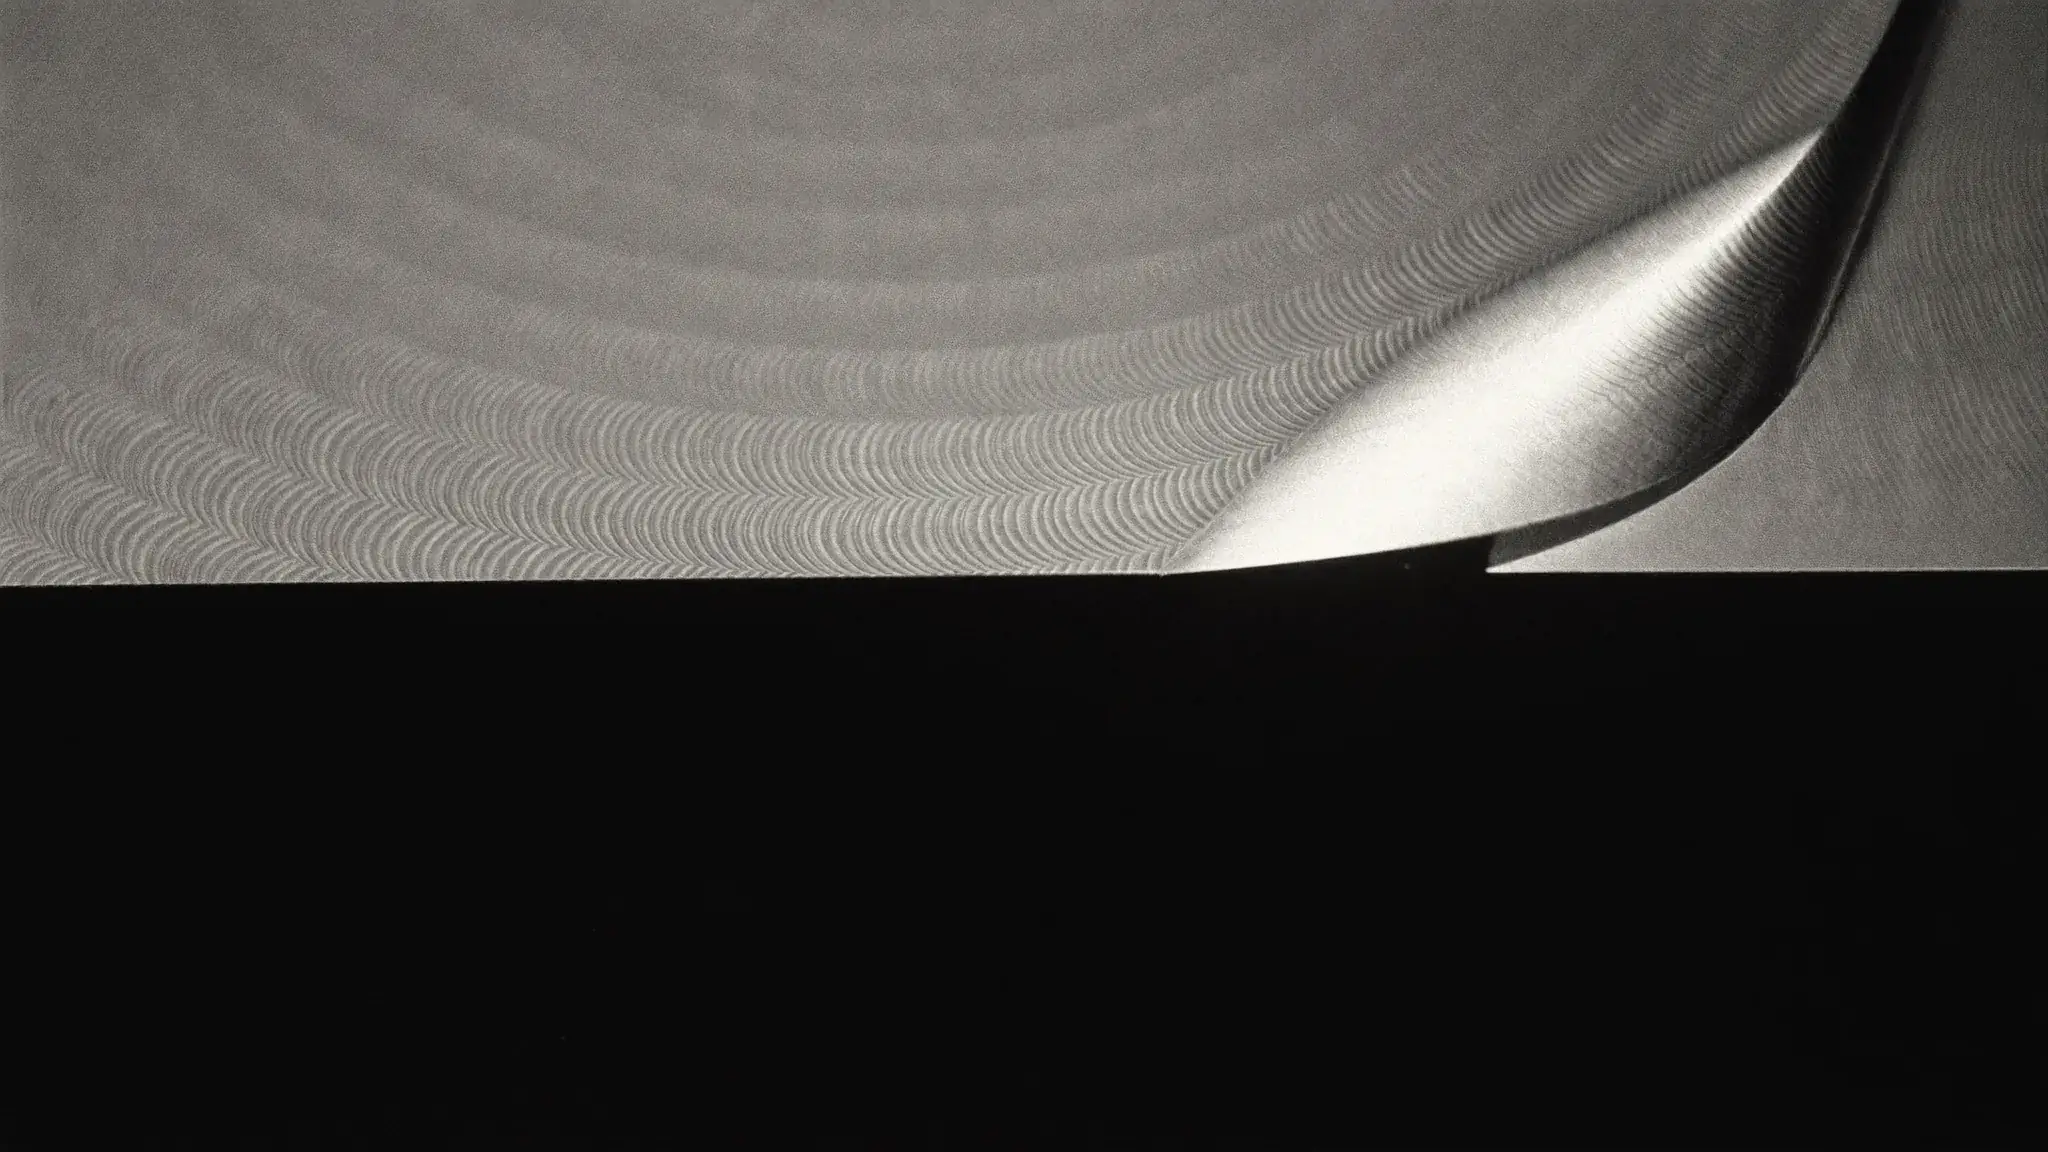
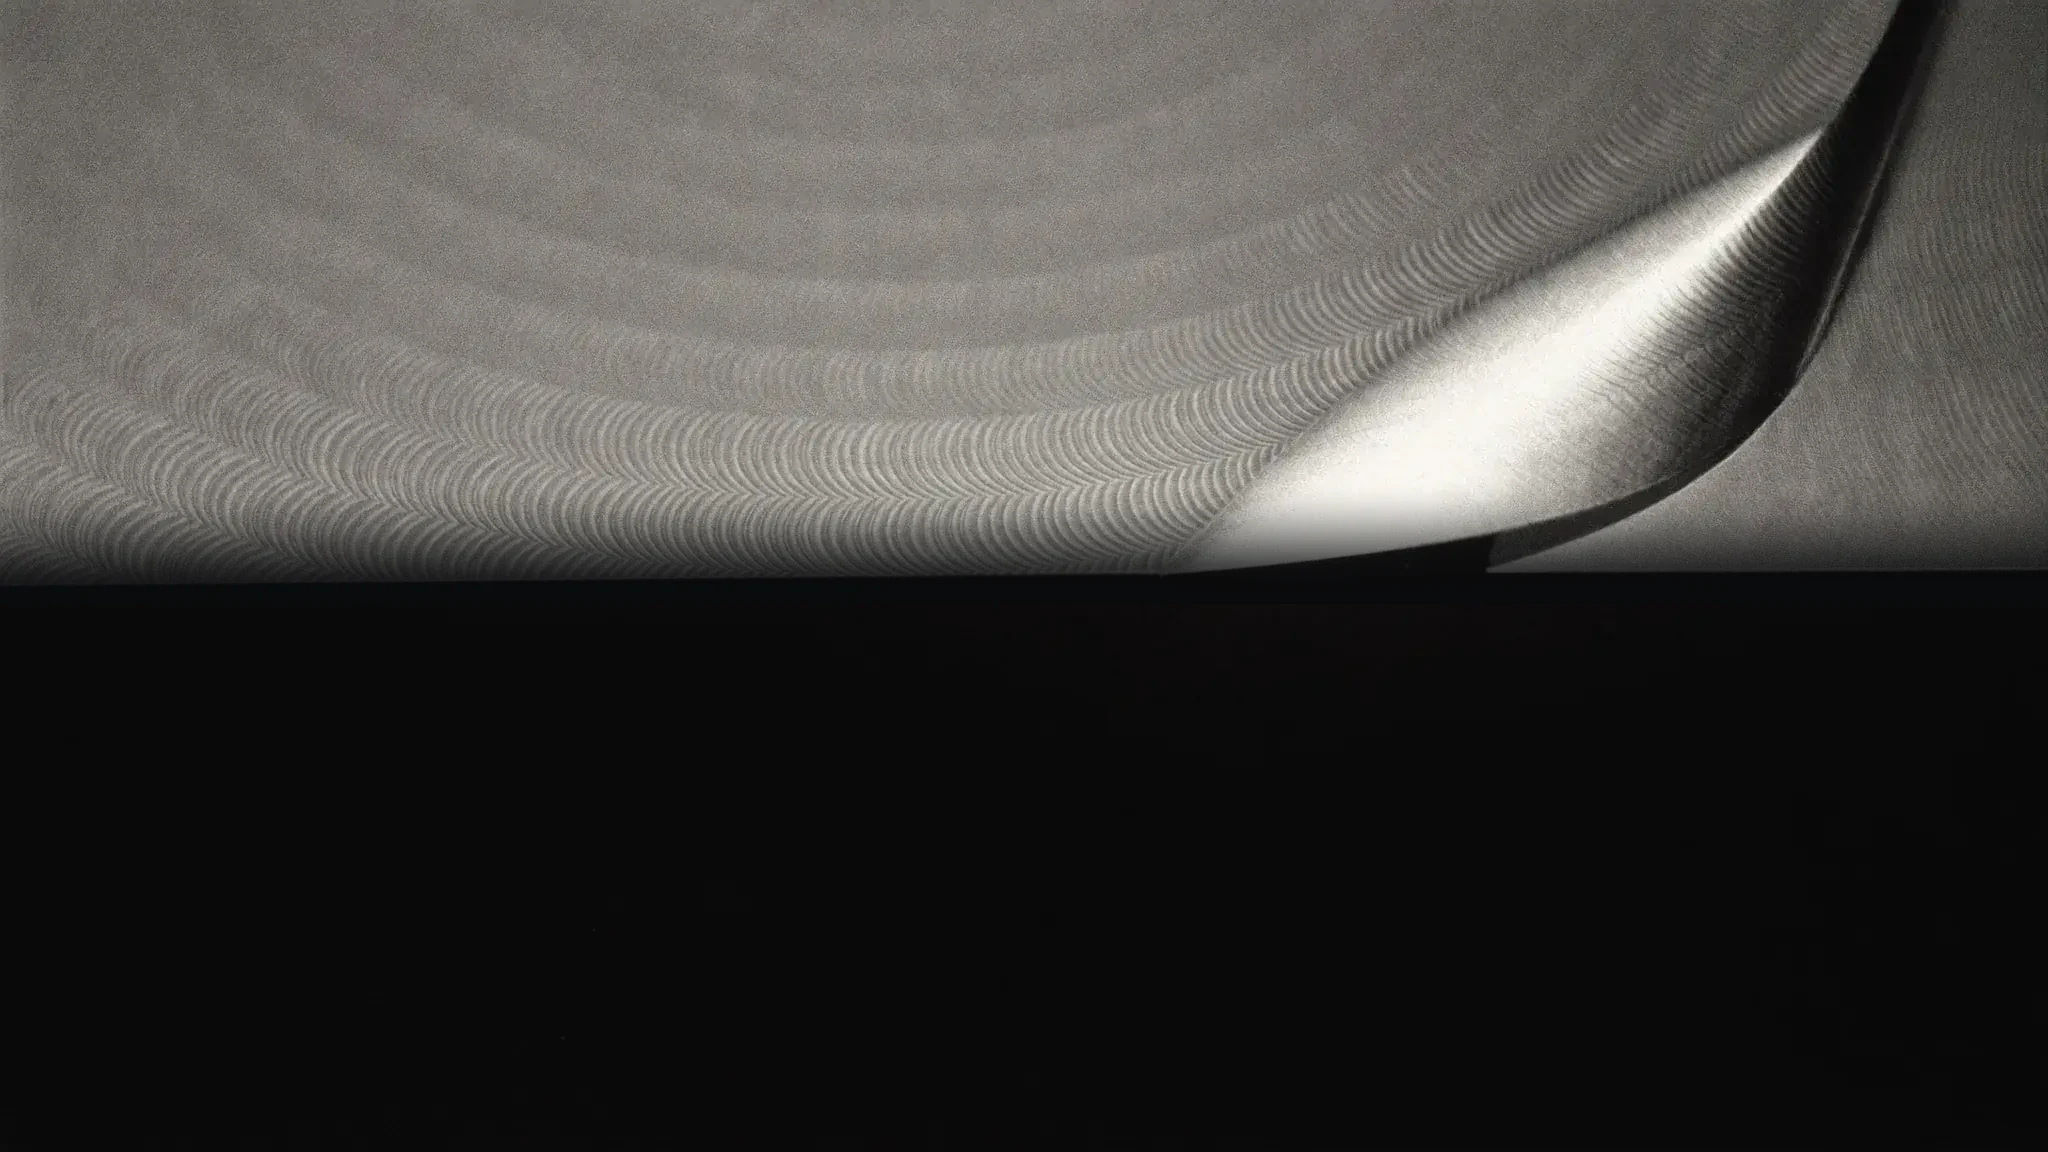
Update site

Changed region(s): [[0.0, 0.4375, 1.0, 0.5312]]

diff --git a/assets/style.css b/assets/style.css
@@ -955,9 +955,13 @@ h3 {
      promise is that the copy stands in the photograph's BLACK lower
      half. The darkness now reaches the copy at every viewport; the
      chip and the plate's upper face stay clean. */
+  /* A sharp knee, not a long ramp: the ramp dimmed the whole plate and
+     the photograph read murky. The plate now stays bright and machined
+     down to ~38%, then falls to true black fast — the photo looks like
+     a photo, the type stands on night. */
   background: linear-gradient(180deg, transparent 0%,
-    rgba(8, 9, 11, 0.26) 28%, rgba(8, 9, 11, 0.62) 46%,
-    rgba(8, 9, 11, 0.9) 64%, var(--bg) 86%);
+    rgba(8, 9, 11, 0.1) 36%, rgba(8, 9, 11, 0.58) 52%,
+    rgba(8, 9, 11, 0.94) 66%, var(--bg) 82%);
 }
 .cut-copy {
   position: relative;
